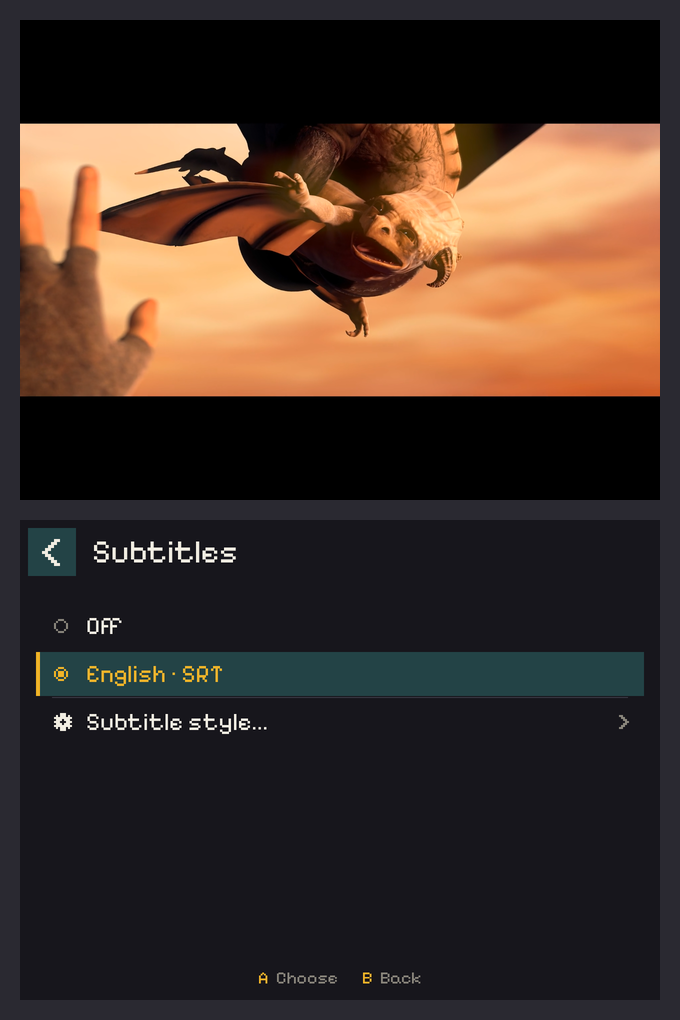
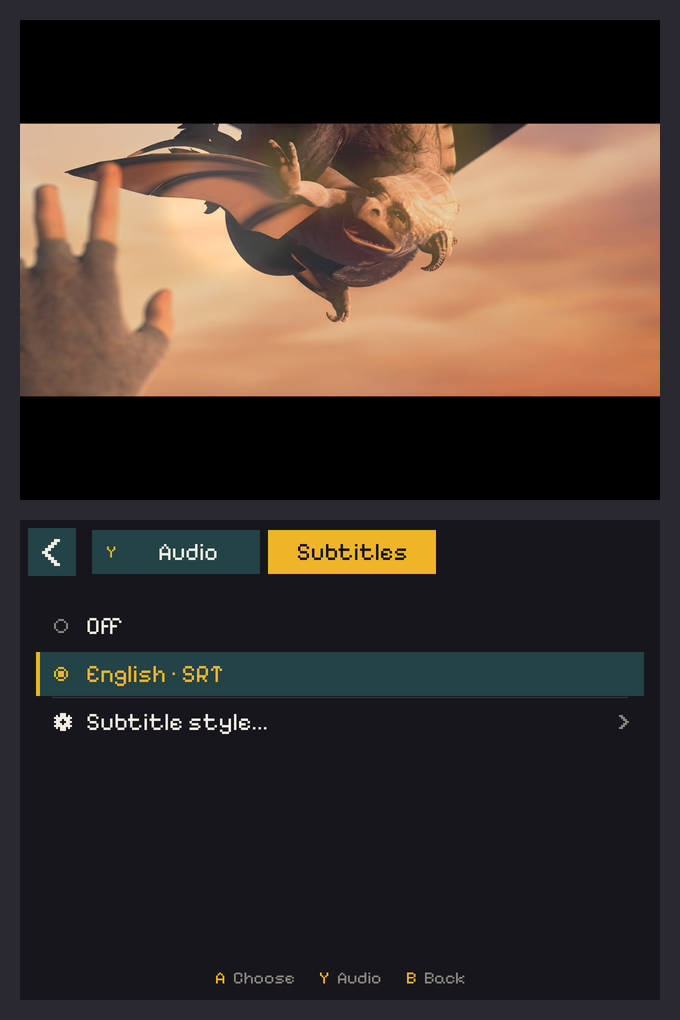
Banana Player 0.4.0: chapters
L2/R2 jump between a file's chapters, a Chapters page, the current
chapter above the bar, Audio & Subtitles on one page, M4B audiobooks as
music, and AVIs whose picture holds its first frame start with sound.
README: chapters, screenshots regenerated (the demo trailer with chapter
markers), links and ?v= to 0.4.0.

Changed region(s): [[0.0309, 0.1216, 0.9882, 0.3951], [0.1235, 0.5167, 0.6485, 0.5775], [0.3088, 0.9422, 0.6794, 0.9725]]

diff --git a/README.md b/README.md
@@ -20,21 +20,21 @@ photos with a finger. When a new version is out, it updates itself.
 
 <table>
   <tr>
-    <td align="center" width="33%"><img src="docs/img/screen-browser.png?v=0.3.0" alt="The file list on the bottom screen, the Banana Player logo on the top"><br><sub><b>Your files.</b> Icons, sizes, and where you left off in each film</sub></td>
-    <td align="center" width="33%"><img src="docs/img/screen-network.png?v=0.3.0" alt="The Network tab on the bottom screen, with saved connections"><br><sub><b>Network folders.</b> Your computer or NAS on the Wi-Fi, found by name</sub></td>
-    <td align="center" width="33%"><img src="docs/img/screen-playing.png?v=0.3.0" alt="A film playing on the top screen, the controls on the bottom"><br><sub><b>Watching.</b> Seek, skip, speed, subtitles and audio tracks, by button or by touch</sub></td>
+    <td align="center" width="33%"><img src="docs/img/screen-browser.png?v=0.4.0" alt="The file list on the bottom screen, the Banana Player logo on the top"><br><sub><b>Your files.</b> Icons, sizes, and where you left off in each film</sub></td>
+    <td align="center" width="33%"><img src="docs/img/screen-network.png?v=0.4.0" alt="The Network tab on the bottom screen, with saved connections"><br><sub><b>Network folders.</b> Your computer or NAS on the Wi-Fi, found by name</sub></td>
+    <td align="center" width="33%"><img src="docs/img/screen-playing.png?v=0.4.0" alt="A film playing on the top screen, the controls on the bottom"><br><sub><b>Watching.</b> Seek, skip, chapters, speed, subtitles and audio tracks, by button or by touch</sub></td>
   </tr>
   <tr>
-    <td align="center"><img src="docs/img/screen-music.png?v=0.3.0" alt="A song with its album art inside the Circle visualizer"><br><sub><b>Music.</b> Album art, a visualizer, or both (here: Circle)</sub></td>
-    <td align="center"><img src="docs/img/screen-photo.png?v=0.3.0" alt="A photo zoomed in on the top screen, the pan area and its buttons on the bottom"><br><sub><b>Photos.</b> Zoom in and drag the box to look around</sub></td>
-    <td align="center"><img src="docs/img/screen-settings.png?v=0.3.0" alt="Settings › Subtitles, with a subtitle preview"><br><sub><b>Settings</b> as tiles, with a help line for each and a live subtitle preview</sub></td>
+    <td align="center"><img src="docs/img/screen-music.png?v=0.4.0" alt="A song with its album art inside the Circle visualizer"><br><sub><b>Music.</b> Album art, a visualizer, or both (here: Circle)</sub></td>
+    <td align="center"><img src="docs/img/screen-photo.png?v=0.4.0" alt="A photo zoomed in on the top screen, the pan area and its buttons on the bottom"><br><sub><b>Photos.</b> Zoom in and drag the box to look around</sub></td>
+    <td align="center"><img src="docs/img/screen-settings.png?v=0.4.0" alt="Settings › Subtitles, with a subtitle preview"><br><sub><b>Settings</b> as tiles, with a help line for each and a live subtitle preview</sub></td>
   </tr>
 </table>
 
 ## Why you'll like it
 
-- 🎬 **Videos:** MP4, MKV, AVI and more, with subtitles and audio tracks you can switch mid-film.
-- 🎵 **Music:** a folder plays as an album, with the cover art, a visualizer, or both.
+- 🎬 **Videos:** MP4, MKV, AVI and more, with subtitles and audio tracks you can switch mid-film, and chapters you can jump between with L2 and R2.
+- 🎵 **Music:** a folder plays as an album, with the cover art, a visualizer, or both. Audiobooks (M4B) keep their chapters.
 - 🖼 **Photos:** zoom in, look around, step through a folder; scanned comics keep your zoom from page to page.
 - 📡 **From your computer or NAS:** play straight from shared folders on your Wi-Fi (SMB or FTP), with nothing copied to the card. "Find on the network" finds computers by name, with no addresses to type, and passwords are saved encrypted.
 - 👆 **Built for two screens:** the picture on top, every control a big button under your thumb below. Every page has the same header and a footer that names the buttons, and an on-screen keyboard takes care of typing.
@@ -46,10 +46,10 @@ Videos play on the handheld's CPU: up to 720p runs smoothly, while 1080p and HEV
 ## Install
 
 > [!TIP]
-> **Latest: [Banana Player 0.3.0](https://github.com/tonywei92/banana-player/releases/tag/v0.3.0)**, for BananaOS on the
+> **Latest: [Banana Player 0.4.0](https://github.com/tonywei92/banana-player/releases/tag/v0.4.0)**, for BananaOS on the
 > Anbernic RG DS and RG DS Plus.
 
-1. **Download** `BananaPlayer-0.3.0-aarch64.zip` from [the release](https://github.com/tonywei92/banana-player/releases/tag/v0.3.0).
+1. **Download** `BananaPlayer-0.4.0-aarch64.zip` from [the release](https://github.com/tonywei92/banana-player/releases/tag/v0.4.0).
 2. **Unzip it into `roms/ports`** on your SD card. You should end up with `Banana Player.sh`, a `BananaPlayer` folder
    and a `media` folder there. (On a Mac, if the zip opens into a folder of its own, move those three out of it.)
 3. **Play:** put the card back in, open the **Ports** shelf and choose **Banana Player**.
